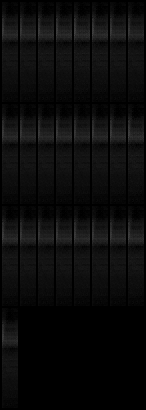
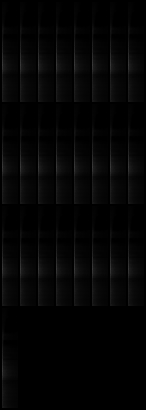
cleaning

diff --git a/framework/CNN_VAE.py b/framework/CNN_VAE.py
@@ -34,8 +34,10 @@ class CNN(nn.Module):
         # ENCODER
         self.encoder = nn.Sequential(
             nn.Linear(32*self.sound_length/((self.kernel_size-1)**2),1200),
+            nn.Dropout(),
             nn.ReLU(),
             nn.Linear(1200, h_dim),
+            nn.Dropout(),
             nn.ReLU(),
             nn.Linear(h_dim, z_dim*2),
             nn.ReLU())  # 2 for mean and variance.
@@ -51,6 +53,7 @@ class CNN(nn.Module):
         # Convolutional layer 1 & 2
         self.layer1_forward = nn.Sequential(
             nn.Conv2d(1, 16, kernel_size=self.kernel_size, padding=2),
+            nn.Dropout2d(),
             nn.BatchNorm2d(16),
             nn.ReLU(),
             nn.MaxPool2d(2))
@@ -58,6 +61,7 @@ class CNN(nn.Module):
         
         self.layer2_forward = nn.Sequential(
             nn.Conv2d(16, 32, kernel_size=self.kernel_size, padding=2),
+            nn.Dropout2d(),
             nn.BatchNorm2d(32),
             nn.ReLU(),
             nn.MaxPool2d(2))
@@ -84,15 +88,15 @@ class CNN(nn.Module):
         self.decoder.apply(self.init_weight)
         
         # Weight normalization
-#        self.w_enc = []
-#        for module in self.encoder:
-#            if type(module) is nn.Linear:
-#                self.w_enc.append(nn.utils.weight_norm(module))
-#                
-#        self.w_dec = []
-#        for module in self.decoder:
-#            if type(module) is nn.Linear:
-#                self.w_dec.append(nn.utils.weight_norm(module))
+        self.w_enc = []
+        for module in self.encoder:
+            if type(module) is nn.Linear:
+                self.w_enc.append(nn.utils.weight_norm(module))
+
+        self.w_dec = []
+        for module in self.decoder:
+            if type(module) is nn.Linear:
+                self.w_dec.append(nn.utils.weight_norm(module))
 
 
     def init_weight(self, module):

diff --git a/CNN.py b/CNN.py
@@ -33,17 +33,17 @@ logging.basicConfig(level=logging.DEBUG, format='%(asctime)s - %(levelname)s - %
 N_FFT = 100
 BATCH_SIZE = 100
 #LEN_EXAMPLES = 38400
-LEN_EXAMPLES = 25000
+LEN_EXAMPLES = 8000
 
 # Net parameters
-Z_DIM, H_DIM, CONV1D_OUT = 100, 500, 1
+Z_DIM, H_DIM = 15, 500
 KERNEL_SIZE = 5
 
 FS = 16000
 
 #%% Importing DATASET
 # Creating dataset
-DATASET_FILEPATH = 'data/datasets/DATASET_test.obj'
+DATASET_FILEPATH = 'data/datasets/DATASET_test_new.obj'
 
 # If there is no archive of the dataset, it needs to be rendered
 if not pa.isfile(DATASET_FILEPATH):
@@ -102,7 +102,7 @@ betaVAE = CNN_VAE.CNN(height=HEIGHT,
 # BETA: Regularisation factor
 # 0: Maximum Likelihood
 # 1: Bayes solution
-BETA = 0
+BETA = 4
 
 
 # GPU computing if available
@@ -111,7 +111,7 @@ if torch.cuda.is_available():
     print('GPU acceleration enabled')
 
 # OPTIMIZER
-OPTIMIZER = torch.optim.Adam(betaVAE.parameters(), lr=0.005)
+OPTIMIZER = torch.optim.RMSprop(betaVAE.parameters())
 
 ITER_PER_EPOCH = len(DATASET)/BATCH_SIZE
 NB_EPOCH = 500;
@@ -139,9 +139,8 @@ for epoch in range(NB_EPOCH):
         images = images.squeeze(1)
 
         # Loss
-        reconst_loss = -0.5*WIDTH*HEIGHT*torch.sum(2*np.pi*log_var)
+        reconst_loss = -0.5*torch.sum(2*np.pi*log_var)
         reconst_loss -= torch.sum(torch.sum((images-out).pow(2))/((2*log_var.exp())))
-        #reconst_loss /= (BATCH_SIZE*SOUND_LENGTH)
         
         kl_divergence = torch.sum(0.5 * (mu**2
                                          + torch.exp(log_var)

diff --git a/toyDataset/dataset.py b/toyDataset/dataset.py
@@ -136,8 +136,8 @@ class toyDataset(Dataset):
             data = data/np.max(data)
             data = np.array(data, dtype=np.dtype('float'))
         else:
-            raise ValueError('Expected spectro or cqt, but got {}. Select a\
-            correct representation name'%(self.data))
+            raise ValueError('Expected spectro or cqt, but got ' + self.data + '. Select a\
+            correct representation name')
         
         return data,param
 

diff --git a/toyDataset/generateParameterSpace.py b/toyDataset/generateParameterSpace.py
@@ -20,7 +20,7 @@ class parameterSpace:
                        'PS' : [-0.1, -0.1, -0.9],
                        'PH' : [0, 1 ,1],
                        'inh': [0, 0.1, 1],
-                       'decay' : [0, 0.1, 10]}
+                       'decay' : [0, 1, 10]}
 
         self.parameter_space = dict.fromkeys(self.params)
         self.N_samples = None # number of samples to generate
